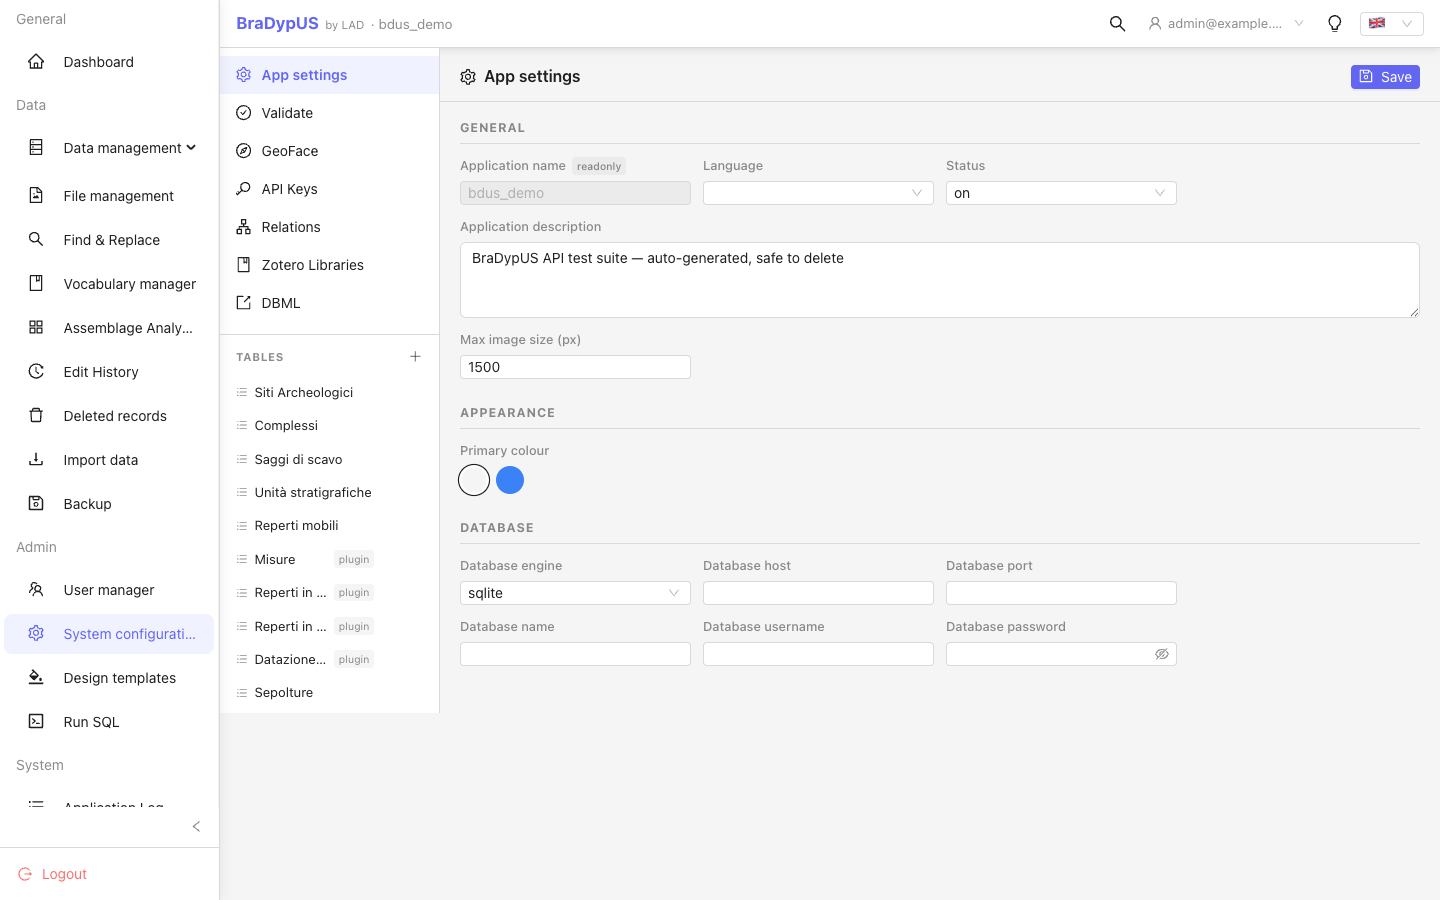
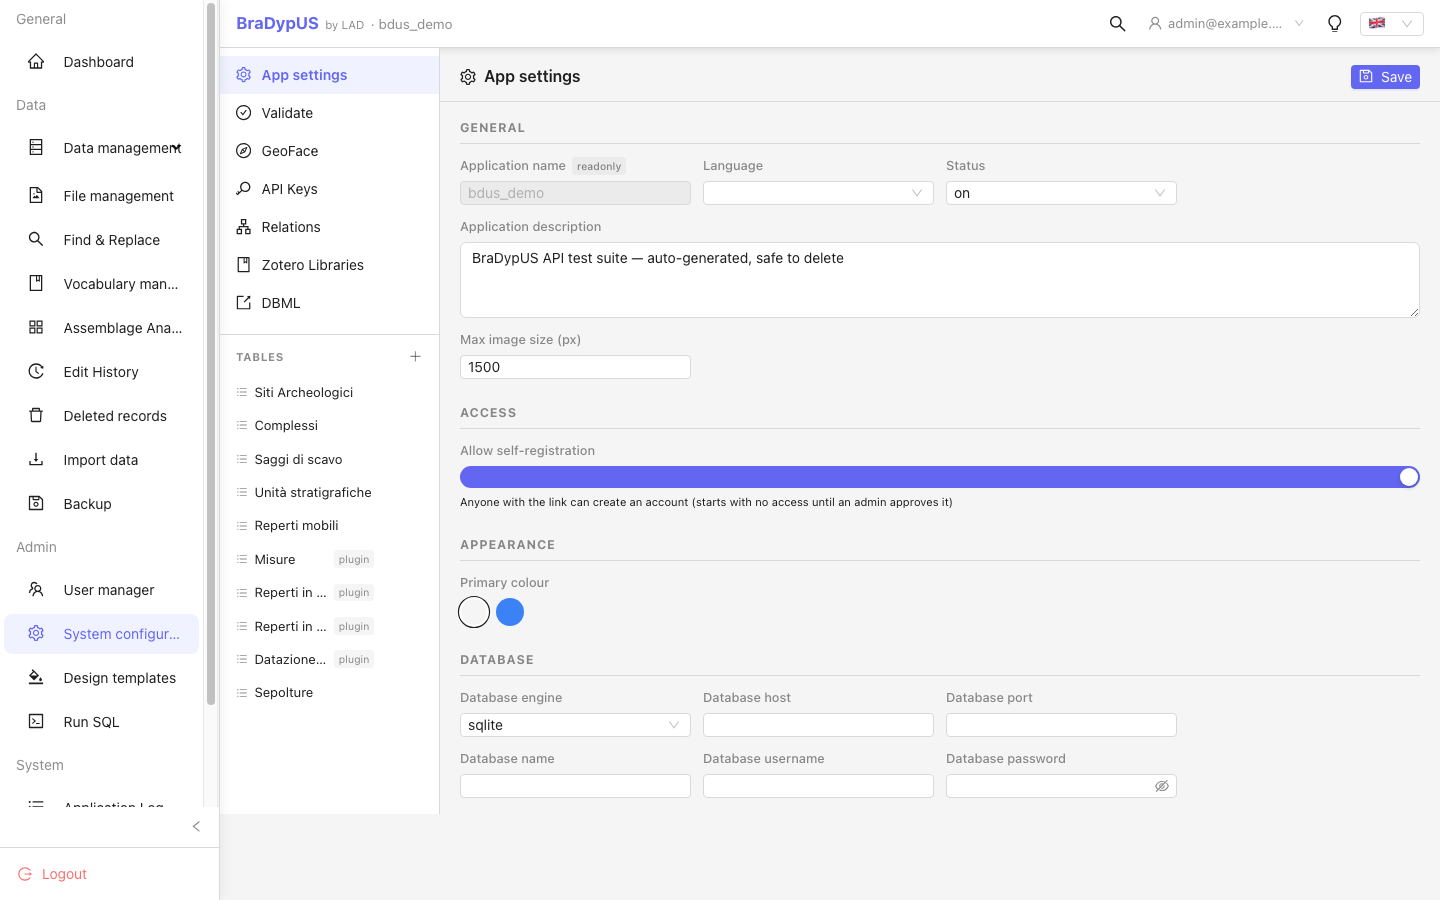
docs: document login/reset/self-registration + app settings Access section (#24)
New guide/usage/authentication.md covers the login screen end to end:
normal login, SSO buttons, the new forgot-password and self-registration
flows (both hidden rather than broken when email isn't configured for
the instance), and the anti-brute-force lock from v5.5.0 (previously
undocumented).

setup/main-app-config.md gets the new "Access" section (allow_self_
registration toggle); deploy/index.md's env var table gets RESEND_API_KEY/
MAIL_FROM_ADDRESS/MAIL_FROM_NAME. app-settings.png re-shot to show the
new section — same 1440x900 viewport as every other screenshot in this
guide.

Version badges use v5.6.0 as the anticipated next release — this
feature isn't tagged yet; adjust if it ships under a different number.

diff --git a/bdus-docs/.vitepress/config.ts b/bdus-docs/.vitepress/config.ts
@@ -61,7 +61,6 @@ function guideSidebar() {
         { text: 'Overview',            link: '/guide/' },
         { text: 'Conventions',         link: '/guide/conventions' },
         { text: 'App tree structure',  link: '/guide/tree-structure' },
-        { text: 'Changelog',           link: '/guide/changelog' },
       ],
     },
     {
@@ -117,6 +116,7 @@ function guideSidebar() {
       collapsed: true,
       items: [
         { text: 'Overview',            link: '/guide/usage/' },
+        { text: 'Login & authentication', link: '/guide/usage/authentication' },
         { text: 'Command palette',     link: '/guide/usage/command-palette' },
         { text: 'Records (CRUD)',       link: '/guide/usage/crud' },
         { text: 'Search & filter',     link: '/guide/usage/search' },

diff --git a/bdus-docs/guide/usage/authentication.md b/bdus-docs/guide/usage/authentication.md
@@ -1,0 +1,66 @@
+---
+title: Login & authentication
+---
+
+# Login & authentication
+
+The login screen ([`/login`](/)) is the entry point to every BraDypUS
+application hosted on an instance. Pick an application from the **Application**
+dropdown, then sign in with email + password, or with a configured SSO
+provider.
+
+![Login form with email and password fields, and the Forgot password? / Create account links below the Login button](/images/v5/usage/login-auth-links.png)
+
+## Single sign-on
+
+If an administrator has configured Google or ORCID for the selected
+application, a matching button appears below the login form. Signing in with
+SSO the first time links that identity to your BraDypUS account by email
+(Google) or requires an admin to have already linked it (ORCID, which doesn't
+expose an email address).
+
+## Forgot password <Badge type="tip" text="v5.6.0" />
+
+The **Forgot password?** link only appears when the instance has email
+sending configured (see [Deploy → environment variables](/guide/deploy/)) —
+on an installation that hasn't set this up, the link is hidden rather than
+leading to a broken form.
+
+![Reset your password panel with an email field and Send reset link button](/images/v5/usage/forgot-password-form.png)
+
+1. Click **Forgot password?**, enter your email, and click **Send reset link**.
+2. You always see the same confirmation message, whether or not that email
+   matches an account — this is deliberate, so the form can't be used to
+   check which addresses are registered.
+3. If it matches, an email arrives with a reset link, valid for **one hour**
+   and usable only once.
+4. Opening the link takes you to a page to choose a new password:
+
+![Choose a new password page with two password fields and a Reset password button](/images/v5/usage/reset-password-page.png)
+
+Successfully resetting your password also lifts any temporary lock from too
+many failed login attempts (see [below](#too-many-failed-attempts)) — proving
+you own the account this way is just as good as a correct password.
+
+## Self-registration <Badge type="tip" text="v5.6.0" />
+
+The **Create account** link, like **Forgot password?**, only appears when
+email sending is configured — and additionally only when an administrator has
+turned it on for that specific application (**Config → App settings → Allow
+self-registration**, off by default; see
+[App settings → Access](/guide/setup/main-app-config#access)).
+
+![Create account form with name, email, password and confirm password fields](/images/v5/usage/register-form.png)
+
+Filling in the form creates an account immediately, but with the **Pending**
+privilege level (see [Users & privileges](/guide/setup/users#privilege-levels))
+— it has no access to anything until an administrator reviews it and raises
+the privilege. Both you and every admin get a confirmation email.
+
+## Too many failed attempts <Badge type="tip" text="v5.5.0" />
+
+After 5 consecutive failed login attempts, an account is locked for 15
+minutes — the login form shows a message instead of attempting the password
+check. This is per-account, not per-IP, and resets on the next successful
+login (or password reset). It's a second line of defense in addition to any
+rate-limiting configured on your reverse proxy.

diff --git a/bdus-docs/guide/setup/main-app-config.md b/bdus-docs/guide/setup/main-app-config.md
@@ -29,6 +29,21 @@ Open it from **Config → App settings** (the first panel in the sidebar).
 
 Use `freeze` before performing a backup or migration.
 
+## Access <Badge type="tip" text="v5.6.0" />
+
+| Field | Description |
+|---|---|
+| **Allow self-registration** | When on, anyone with the login link can create their own account via **Create account** on the login screen (see [Login & authentication → Self-registration](/guide/usage/authentication#self-registration)). Off by default. |
+
+Self-registered accounts start at the **Pending** privilege level — no
+access to anything until an administrator reviews them in
+[Users & privileges](/guide/setup/users) and raises the privilege.
+
+This toggle is disabled, with an explanatory note, when the instance hasn't
+configured email sending at all (`RESEND_API_KEY` — see
+[Deploy → environment variables](/guide/deploy/)): turning it on wouldn't do
+anything without a way to actually notify the new user and the admins.
+
 ## Appearance
 
 The **Appearance** section lets an administrator pick the application's

diff --git a/bdus-docs/guide/deploy/index.md b/bdus-docs/guide/deploy/index.md
@@ -44,6 +44,9 @@ Set these in `docker-compose.prod.yml` or via a `.env` file:
 | `BRADYPUS_DEBUG` | `0` | Set to `1` only for debugging |
 | `BRADYPUS_ALLOW_NEW_APP` | `0` | Set to `1` temporarily to create the first app |
 | `BRADYPUS_CORS_ORIGIN` | — | Space-separated allowed origins for cross-origin API access |
+| `RESEND_API_KEY` | — | API key for [Resend](https://resend.com), used to send password-reset and self-registration emails. One key covers every application on this instance. Leave unset to keep those features reported as unavailable instead of failing silently — see [Login & authentication](/guide/usage/authentication). |
+| `MAIL_FROM_ADDRESS` | — | Sender address for those emails. Must be on a domain verified in your Resend account. |
+| `MAIL_FROM_NAME` | `BraDypUS` | Sender display name. |
 
 ## File uploads <Badge type="tip" text="v5.4.5" />
 
